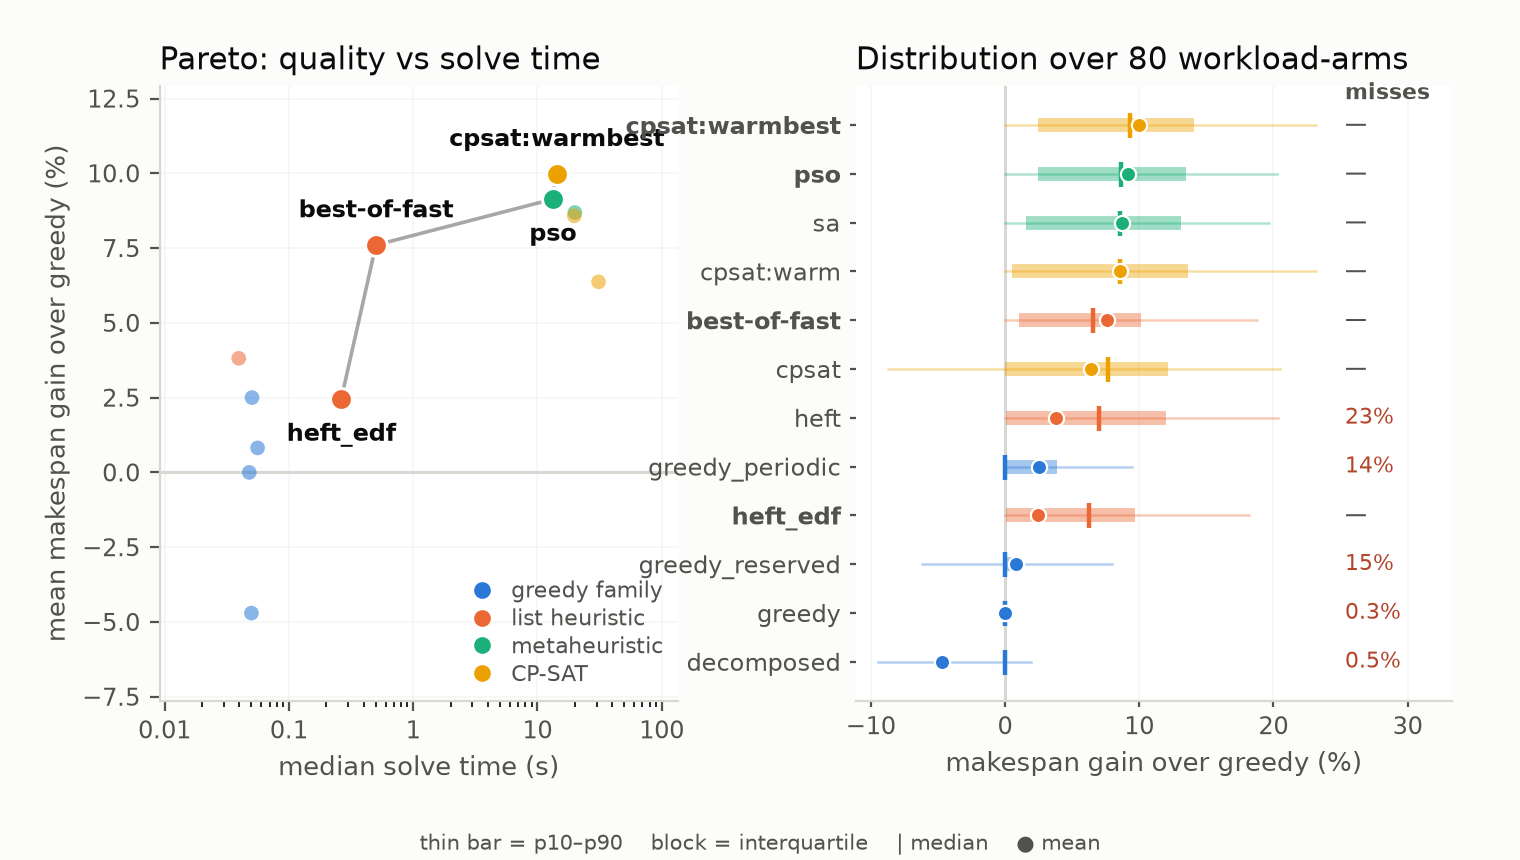
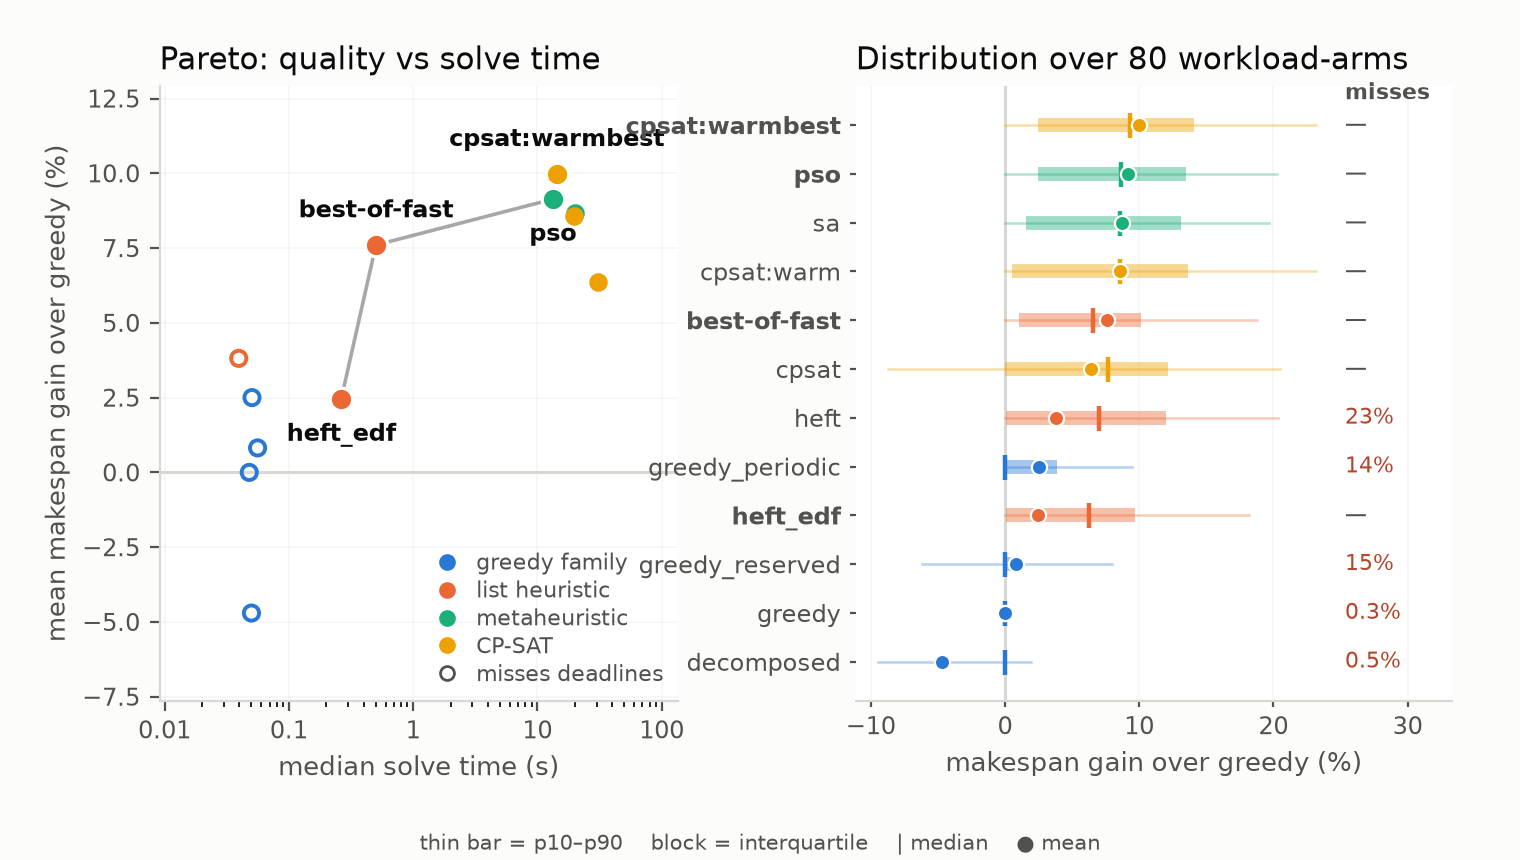
sched_algo_sweep10: mark the infeasible solvers on the Pareto panel
The frontier looked wrong because points sat above and left of it with nothing
to say why. heft is at 0.04 s / 3.81%, dominating heft_edf at 0.26 s / 2.45% on
BOTH axes, so the eye correctly says the line should start there -- it is
excluded only because it misses 22.9% of periodic operations, and splitting the
panels had dropped the cue that showed it. Deadline-missing solvers are hollow
again. Four of the five points above the line are hollow; the fifth, greedy, is
the baseline at 0.

Fill now carries feasibility and size carries frontier membership. Using
opacity for the second made a faded fill read as hollow, which is precisely the
distinction the panel turns on.

Also worth recording: the frontier really does include cpsat:warmbest. It sits
at 14.27 s / 9.98% against pso's 13.28 s / 9.14%, so on a log axis spanning
0.01 to 100 s that segment is about a millimetre and hides behind the two
markers. Nothing is missing from the line.

diff --git a/experiments/sched_algo_sweep10/scripts/plot_pareto_panels.py b/experiments/sched_algo_sweep10/scripts/plot_pareto_panels.py
@@ -87,10 +87,19 @@ FRONT = {p[2] for p in front}
 ax.plot([p[0] for p in front], [p[1] for p in front], "-", color=INK2, lw=1.3,
         alpha=0.5, zorder=1)
 for s in S:
-    on = s in FRONT
-    ax.scatter([X[s]], [Y[s]], s=(90 if WIDE else 62) if on else (40 if WIDE else 28),
-               color=FAMILY[s], edgecolor="white" if on else "none",
-               linewidth=1.1, alpha=1.0 if on else 0.55, zorder=3 if on else 2)
+    on, ok = s in FRONT, M[s] < 0.05
+    # Hollow marks the solvers that miss deadlines. Without this cue the
+    # frontier looks wrong: heft sits at 0.04 s / 3.81%, above AND left of
+    # heft_edf, so the eye says the line should start there. It is excluded
+    # because it misses 22.9% of periodic operations, and the reader needs to
+    # be able to see that from this panel rather than infer it from the other.
+    # Fill carries ONE thing (feasible or not) and size carries the other (on
+    # the frontier or not). Using opacity for the second made a faded fill read
+    # as hollow, which is the very distinction the panel turns on.
+    ax.scatter([X[s]], [Y[s]], s=(95 if WIDE else 66) if on else (42 if WIDE else 30),
+               facecolor=FAMILY[s] if ok else "none",
+               edgecolor="white" if (on and ok) else FAMILY[s],
+               linewidth=1.2 if ok else 1.4, zorder=3 if on else 2)
 # only the frontier is named here; the right panel names everything
 lab = sorted(FRONT, key=lambda s: -Y[s])
 for i, s in enumerate(lab):
@@ -109,8 +118,11 @@ ax.tick_params(colors=INK2, labelsize=FK)
 ax.set_xlabel("median solve time (s)", fontsize=FA, color=INK2)
 ax.set_ylabel("mean makespan gain over greedy (%)", fontsize=FA, color=INK2)
 ax.set_title("Pareto: quality vs solve time", fontsize=FT, color=INK, loc="left")
-ax.legend(handles=[Line2D([], [], marker="o", ls="", color=c, markersize=5, label=n)
-                   for c, n in FAMNAME.items()],
+_h = [Line2D([], [], marker="o", ls="", color=c, markersize=5, label=n)
+      for c, n in FAMNAME.items()]
+_h.append(Line2D([], [], marker="o", ls="", markerfacecolor="none",
+                 markeredgecolor=INK2, markersize=5, label="misses deadlines"))
+ax.legend(handles=_h,
           loc="lower right", frameon=False, fontsize=FG, labelcolor=INK2,
           handletextpad=0.3, borderpad=0.15, labelspacing=0.25)
 
